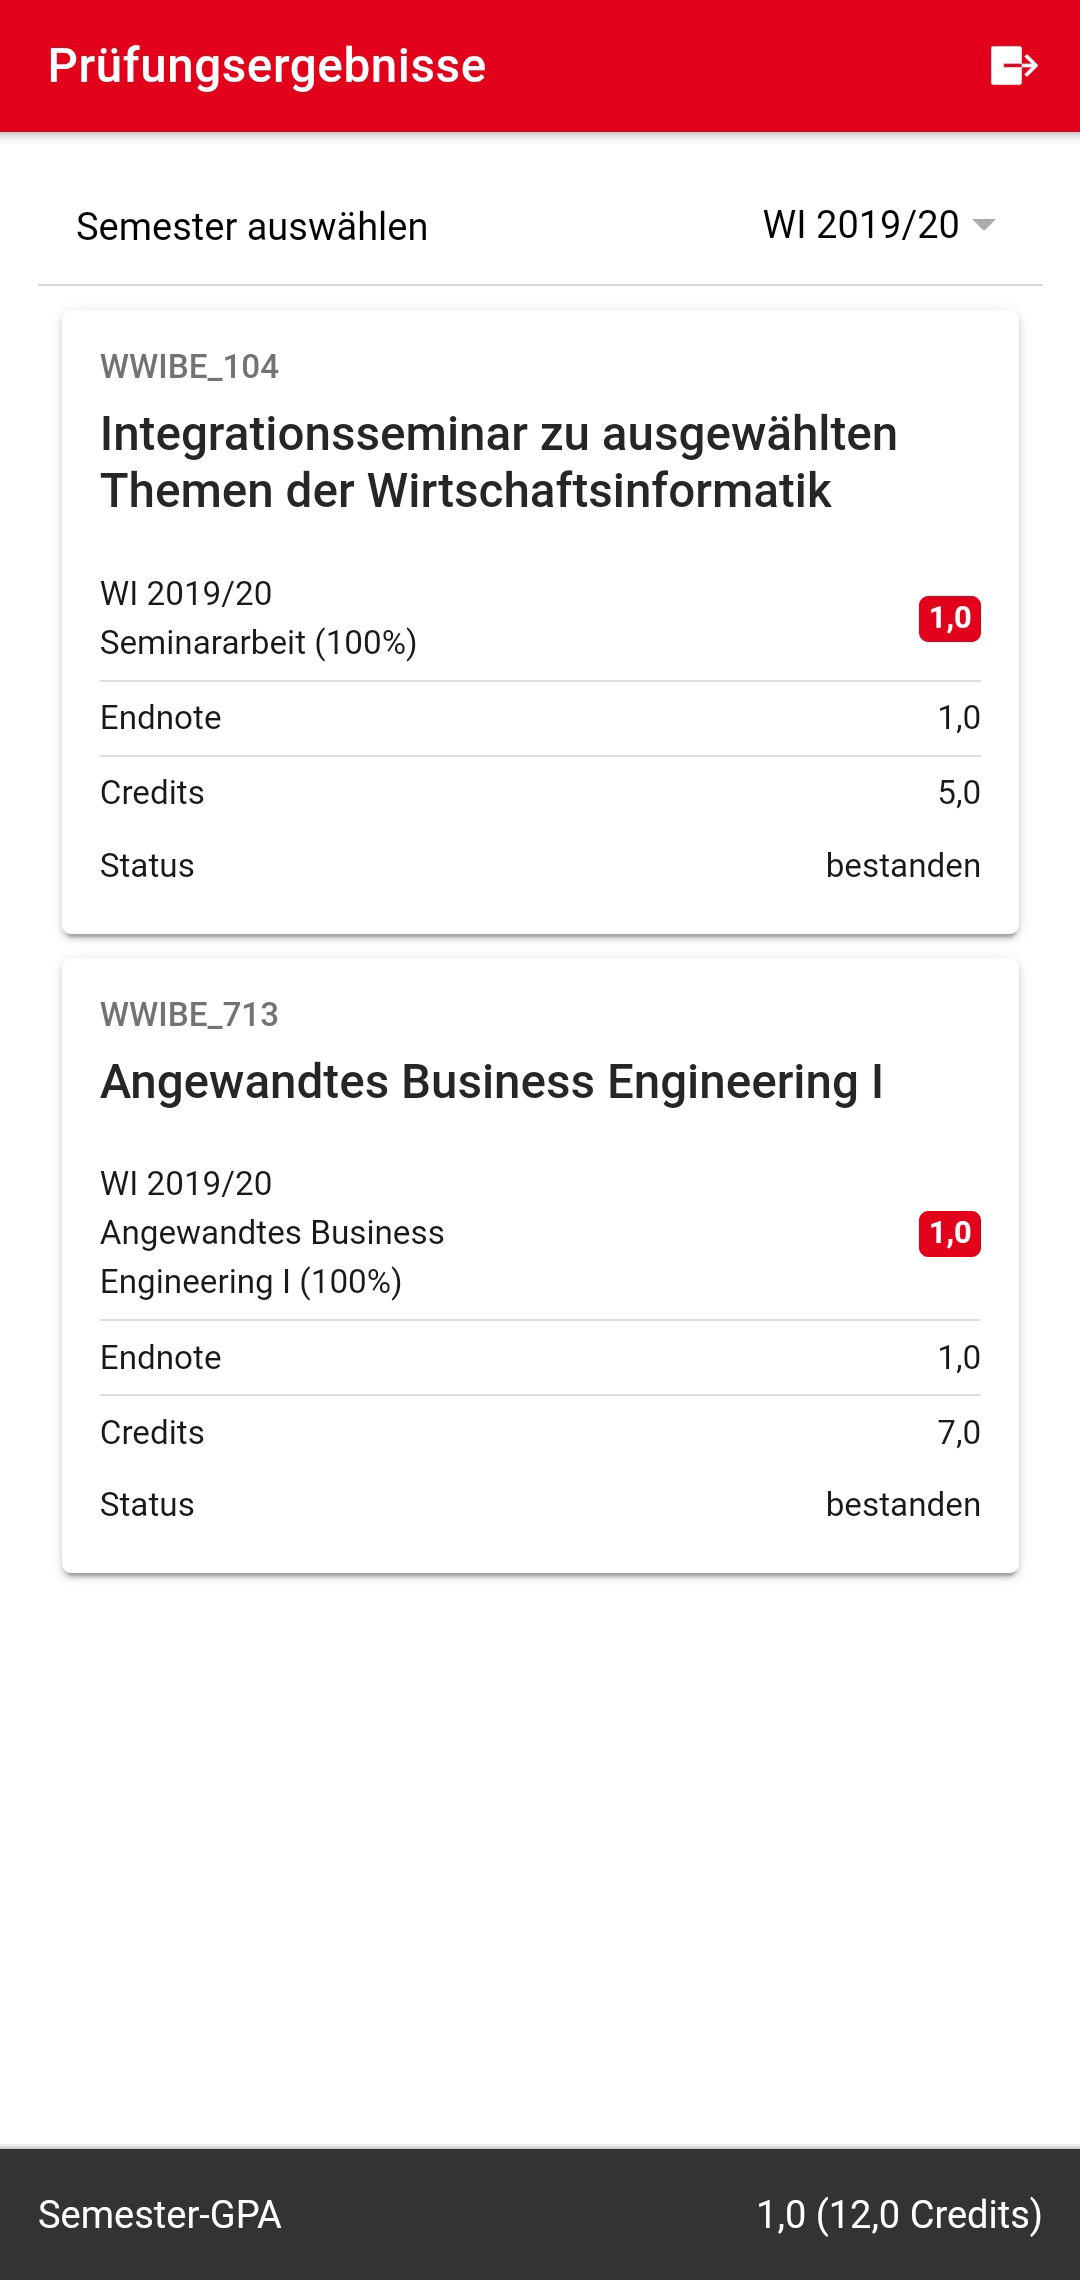
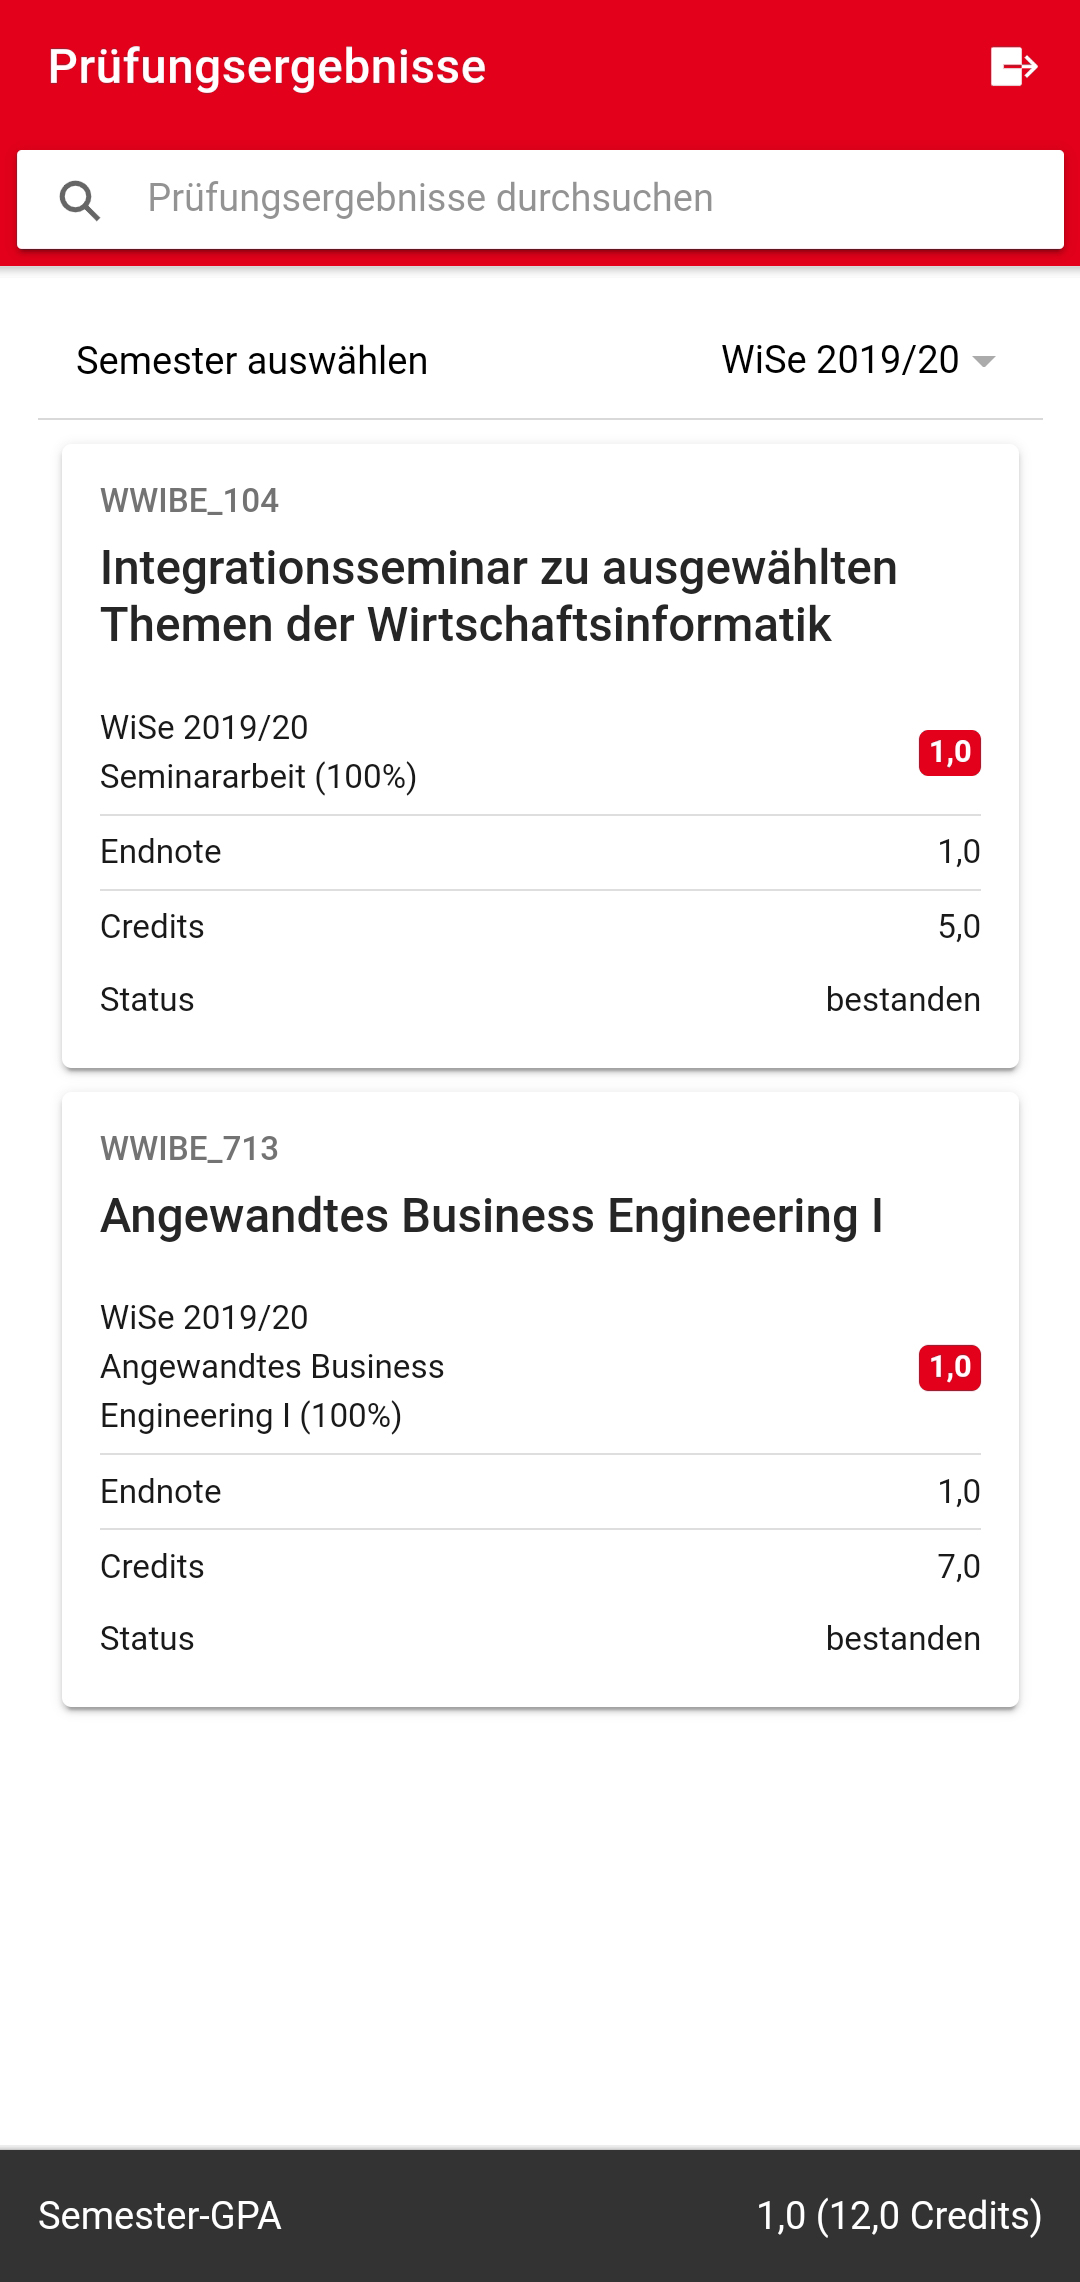
feat(exam-results): implement a search bar (#62)
* feat(exam-results): implement a search bar

* test: add tests

* fix build

* feat: reset searchbarValue on semester select

* fix ios toolbar background color

* docs: update README.md

Changed region(s): [[0.0917, 0.1557, 0.9167, 0.7474], [0.0, 0.0311, 1.0, 0.1868], [0.7639, 0.5294, 0.9167, 0.7474]]

diff --git a/src/app/modules/exam-results/pages/exam-results/exam-results.page.ts b/src/app/modules/exam-results/pages/exam-results/exam-results.page.ts
@@ -1,7 +1,8 @@
 import { ChangeDetectionStrategy, ChangeDetectorRef, Component, OnInit } from '@angular/core';
 import { Router } from '@angular/router';
 import { AuthenticationService, DialogService, NativeHttpError, SessionError } from '@app/core';
-import { Semester, SemesterList, SemesterListItem } from '../../interfaces';
+import { Plugins } from '@capacitor/core';
+import { Semester, SemesterList, SemesterListItem, Unit } from '../../interfaces';
 import { ExamResultsPageService } from '../../services';
 
 @Component({
@@ -13,6 +14,7 @@ import { ExamResultsPageService } from '../../services';
 export class ExamResultsPage implements OnInit {
   public semesterList: SemesterList | undefined;
   public semesterResults: Semester | undefined;
+  public searchbarValue: string = '';
 
   constructor(
     private dialogService: DialogService,
@@ -47,9 +49,22 @@ export class ExamResultsPage implements OnInit {
         throw error;
       }
     } finally {
-      this.cdr.markForCheck();
+      this.searchbarValue = '';
+      this.cdr.detectChanges();
       await loading.dismiss();
     }
+  }
+
+  public trackByUnitId(index: number, item: Unit): string {
+    return item.id;
+  }
+
+  public hideKeyboard(): void {
+    Plugins.Keyboard.hide();
+  }
+
+  public searchbarChangeEvent(): void {
+    this.cdr.detectChanges();
   }
 
   public async logout(): Promise<void> {
@@ -83,7 +98,7 @@ export class ExamResultsPage implements OnInit {
         throw error;
       }
     } finally {
-      this.cdr.markForCheck();
+      this.cdr.detectChanges();
       await loading.dismiss();
     }
   }

diff --git a/src/app/modules/exam-results/pipes/unit-filter/unit-filter.pipe.spec.ts b/src/app/modules/exam-results/pipes/unit-filter/unit-filter.pipe.spec.ts
@@ -1,0 +1,36 @@
+import { Unit } from '../../interfaces';
+import { UnitFilterPipe } from './unit-filter.pipe';
+
+describe('UnitFilterPipe', () => {
+  let pipe: UnitFilterPipe;
+
+  beforeEach(() => {
+    pipe = new UnitFilterPipe();
+  });
+
+  it('create an instance', () => {
+    expect(pipe).toBeTruthy();
+  });
+
+  it('should transform correctly', () => {
+    const units: Unit[] = [
+      {
+        id: '111222111222111',
+        displayName: 'Wissenschaftliches Arbeiten',
+        no: 'WWI_100',
+        status: 'bestanden',
+        credits: '5,0',
+        finalGrade: 'b',
+        exams: undefined,
+      },
+    ];
+    let val = pipe.transform(units, 'bestanden');
+    expect(val.length).toBe(1);
+    val = pipe.transform(units, 'Wissen');
+    expect(val.length).toBe(1);
+    val = pipe.transform(units, '100');
+    expect(val.length).toBe(1);
+    val = pipe.transform(units, '4,0');
+    expect(val.length).toBe(0);
+  });
+});

diff --git a/src/app/modules/exam-results/pipes/unit-filter/unit-filter.pipe.ts b/src/app/modules/exam-results/pipes/unit-filter/unit-filter.pipe.ts
@@ -1,0 +1,32 @@
+import { Pipe, PipeTransform } from '@angular/core';
+import { Unit } from '../../interfaces';
+
+@Pipe({
+  name: 'unitFilter',
+})
+export class UnitFilterPipe implements PipeTransform {
+  public transform(units: Unit[], searchValue: string): Unit[] {
+    if (!searchValue) {
+      return units;
+    }
+    return units.filter(unit => {
+      if (this.objectContainsString(unit, searchValue)) {
+        return unit;
+      }
+    });
+  }
+
+  private objectContainsString(obj: any, str: string): boolean {
+    str = str.toLowerCase();
+    for (const key in obj) {
+      if (typeof obj[key] === 'string' || typeof obj[key] === 'number') {
+        if (obj[key].toString().toLowerCase().includes(str)) {
+          return true;
+        }
+      } else if (typeof obj[key] === 'object') {
+        return this.objectContainsString(obj[key], str);
+      }
+    }
+    return false;
+  }
+}

diff --git a/src/app/modules/exam-results/pages/exam-results/exam-results.page.html b/src/app/modules/exam-results/pages/exam-results/exam-results.page.html
@@ -7,12 +7,24 @@
       </ion-button>
     </ion-buttons>
   </ion-toolbar>
+  <ion-toolbar>
+    <ion-searchbar
+      placeholder="Prüfungsergebnisse durchsuchen"
+      inputmode="search"
+      (ionChange)="searchbarChangeEvent()"
+      (keyup.enter)="hideKeyboard()"
+      [(ngModel)]="searchbarValue"
+    ></ion-searchbar>
+  </ion-toolbar>
 </ion-header>
 
 <ion-content class="ion-padding">
   <app-semester-select [semesterList]="semesterList" (selectSemester)="selectSemester($event)"></app-semester-select>
   <ng-container *ngIf="semesterResults?.units.length > 0">
-    <app-unit-card *ngFor="let unit of semesterResults?.units" [unit]="unit"></app-unit-card>
+    <app-unit-card
+      *ngFor="let unit of semesterResults?.units | unitFilter: searchbarValue; trackBy: trackByUnitId"
+      [unit]="unit"
+    ></app-unit-card>
   </ng-container>
 </ion-content>
 

diff --git a/src/app/modules/exam-results/exam-results.module.ts b/src/app/modules/exam-results/exam-results.module.ts
@@ -5,7 +5,7 @@ import { IonicModule } from '@ionic/angular';
 import { SemesterGpaBarComponent, SemesterSelectComponent, UnitCardComponent } from './components';
 import { ExamResultsPageRoutingModule } from './exam-results-routing.module';
 import { ExamResultsPage } from './pages';
-import { EmptyStringPipe, GradePipe } from './pipes';
+import { EmptyStringPipe, GradePipe, UnitFilterPipe } from './pipes';
 
 @NgModule({
   imports: [CommonModule, FormsModule, IonicModule, ExamResultsPageRoutingModule],
@@ -16,6 +16,7 @@ import { EmptyStringPipe, GradePipe } from './pipes';
     UnitCardComponent,
     EmptyStringPipe,
     GradePipe,
+    UnitFilterPipe,
   ],
 })
 export class ExamResultsPageModule {}

diff --git a/src/app/modules/login/pages/login/login.page.spec.ts b/src/app/modules/login/pages/login/login.page.spec.ts
@@ -20,7 +20,7 @@ describe('LoginPage', () => {
       dialogServiceSpy = jasmine.createSpyObj('DialogService', ['showErrorAlert', 'showLoading']);
       authenticationServiceSpy = jasmine.createSpyObj('AuthenticationService', ['login']);
       routerSpy = jasmine.createSpyObj('Router', ['navigate']);
-      cdrSpy = jasmine.createSpyObj('ChangeDetectorRef', ['markForCheck']);
+      cdrSpy = jasmine.createSpyObj('ChangeDetectorRef', ['detectChanges']);
 
       TestBed.configureTestingModule({
         declarations: [LoginPage],

diff --git a/src/app/modules/exam-results/pages/exam-results/exam-results.page.spec.ts b/src/app/modules/exam-results/pages/exam-results/exam-results.page.spec.ts
@@ -26,7 +26,7 @@ describe('ExamResultsPage', () => {
       });
       authServiceSpy = jasmine.createSpyObj('AuthenticationService', ['logout']);
       routerSpy = jasmine.createSpyObj('Router', ['navigate']);
-      cdrSpy = jasmine.createSpyObj('ChangeDetectorRef', ['markForCheck']);
+      cdrSpy = jasmine.createSpyObj('ChangeDetectorRef', ['detectChanges']);
       examResultsPageServiceSpy = jasmine.createSpyObj('ExamResultsPageService', [
         'getSemesterList',
         'getSemesterByListItem',

diff --git a/src/theme/variables.scss b/src/theme/variables.scss
@@ -108,6 +108,10 @@
   --ion-toolbar-background: var(--ion-color-primary);
   --ion-toolbar-color: var(--ion-color-primary-contrast);
 
+  ion-searchbar {
+    --background: var(--ion-color-primary-contrast);
+  }
+
   --ion-card-color: var(--ion-color-step-900);
 }
 

diff --git a/src/app/modules/exam-results/pipes/index.ts b/src/app/modules/exam-results/pipes/index.ts
@@ -1,2 +1,3 @@
 export * from './empty-string/empty-string.pipe';
 export * from './grade/grade.pipe';
+export * from './unit-filter/unit-filter.pipe';

diff --git a/README.md b/README.md
@@ -10,7 +10,7 @@
 
 - [x] Optimized content display for mobile devices
 - [x] All results at a glance (no pop-ups)
-- [ ] All results searchable (Coming soon)
+- [x] All results searchable
 - [x] Dark theme
 
 ## Screenshots 📷
